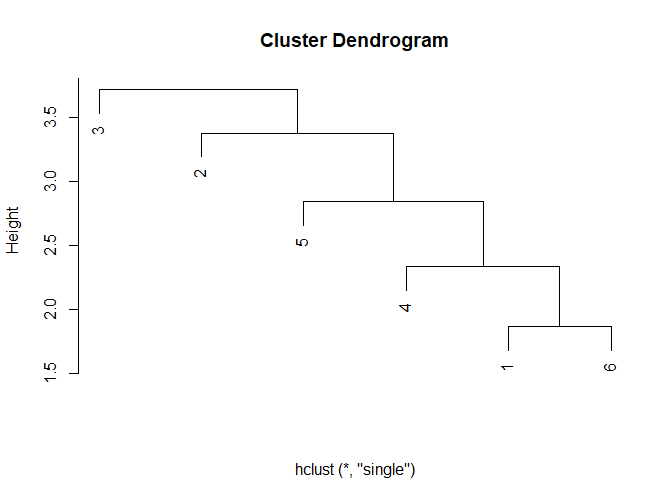
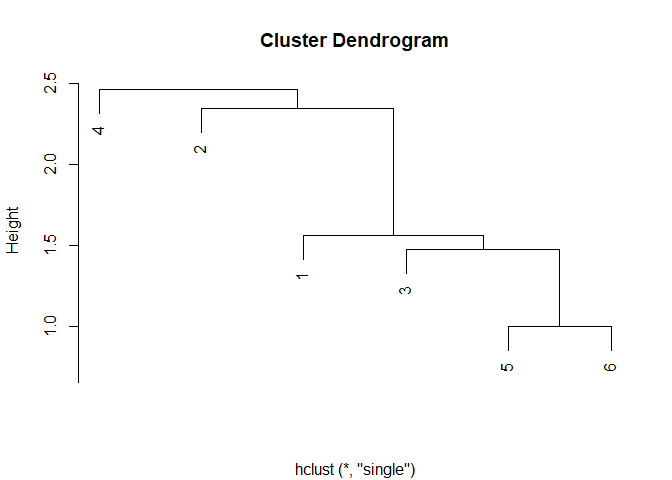
Re-knitted readme.md

diff --git a/README.md b/README.md
@@ -70,13 +70,13 @@ random 6\*6 numerical matrix can be produced as follows
 matrix <- matrix(rnorm(36), nrow = 6)
 ```
 
-    #>            [,1]       [,2]        [,3]       [,4]       [,5]       [,6]
-    #> [1,]  0.2002093 -1.8429099 -0.03798537 -0.2919818  0.5508570  1.2771151
-    #> [2,]  0.4256045 -1.5705979 -0.39928420  0.2231061 -0.2953992  2.5584870
-    #> [3,] -0.7006193  0.7684140 -0.38902708  0.9919670 -2.5106750  0.9921104
-    #> [4,] -1.2408019 -3.1316856 -0.12149503  0.2325101  0.7273651  0.3661015
-    #> [5,] -0.3363887 -0.2517239  1.08031840 -0.2630235  1.3006307  0.3040100
-    #> [6,]  1.1553003 -0.5286421  1.51941427 -0.2536279  1.3262744 -1.2321638
+    #>            [,1]        [,2]       [,3]       [,4]        [,5]        [,6]
+    #> [1,] -1.6858700  0.02002372 -1.8418908  0.3505620  0.09653293  0.29773899
+    #> [2,] -0.3699596  0.38126401  2.1807528 -2.1416279 -0.74941603  0.24783083
+    #> [3,] -1.5807367  0.82641638 -2.1291174 -0.4369107 -0.07072455 -0.02078181
+    #> [4,] -0.5757894  2.51702363 -1.7532831  0.3904929 -0.42256927 -0.34339428
+    #> [5,]  0.5659827 -0.75028683 -0.8262724  1.7301778  0.44272678  0.32271207
+    #> [6,]  0.3067436  0.58285449 -1.2621084  1.0912458  0.19876982 -0.38036886
 
 To obtain a distance between the matrix columns (in case of a matrix
 input) or the vector members (in case of a vector input) one has to
@@ -95,11 +95,11 @@ distance_matrix <- dist(matrix, method = "euclidean")
 ```
 
     #>          1        2        3        4        5
-    #> 2 1.696724                                    
-    #> 3 4.342403 3.832961                           
-    #> 4 2.209213 3.338227 5.198818                  
-    #> 5 2.362276 3.517895 4.461710 3.336846         
-    #> 6 3.458933 4.746121 5.476315 4.284764 2.203452
+    #> 2 4.997290                                    
+    #> 3 1.222033 4.866000                           
+    #> 4 2.856090 5.191193 2.218512                  
+    #> 5 2.952882 5.255120 3.724204 3.978128         
+    #> 6 2.375359 4.908872 2.628840 2.374787 1.731039
 
 ### Hierarchical Clustering
 
